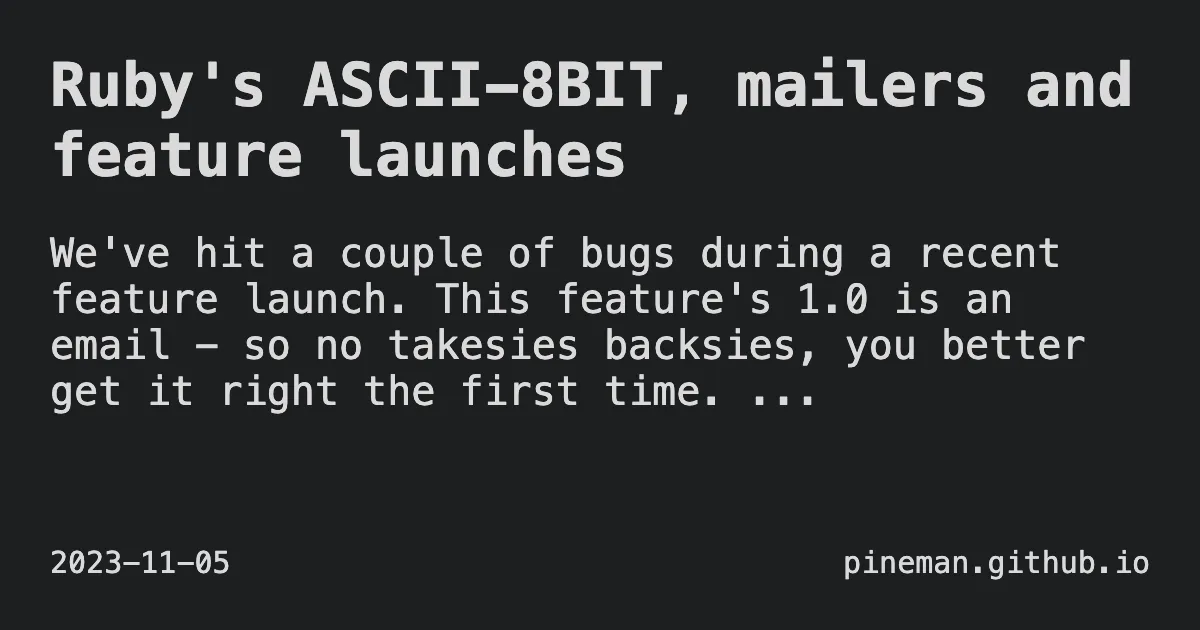
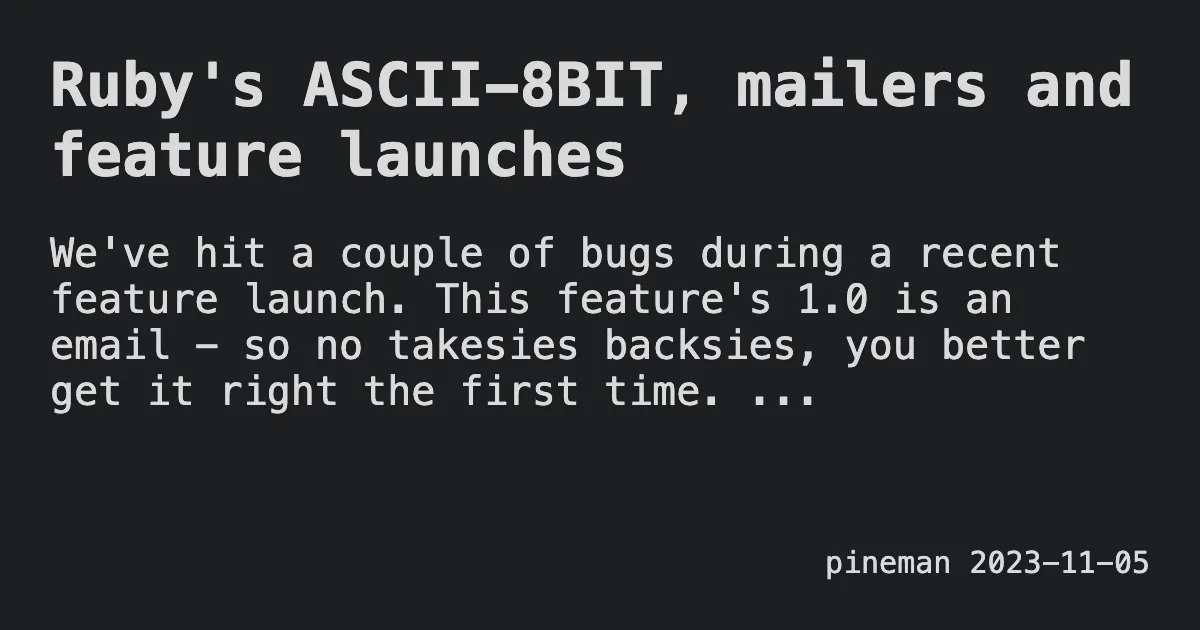
nit

Changed region(s): [[0.6783, 0.8746, 0.9558, 0.9349], [0.0308, 0.8746, 0.185, 0.9349]]

diff --git a/build.rb b/build.rb
@@ -124,6 +124,7 @@ def gen_img(post)
       justify-content: space-between;
       margin-top: auto;
       font-size: 30px;
+      align-self: flex-end;
     }
     h1 {
       margin: 0;
@@ -138,8 +139,7 @@ def gen_img(post)
       <h1>#{post.title}</h1>
       <p>#{post.text_descr}</p>
       <div class="footer">
-        <span>#{post.date.strftime("%Y-%m-%d")}</span>
-        <span>pineman.github.io</span>
+        <span>pineman #{post.date.strftime("%Y-%m-%d")}</span>
       </div>
     </div>
   </foreignObject>
